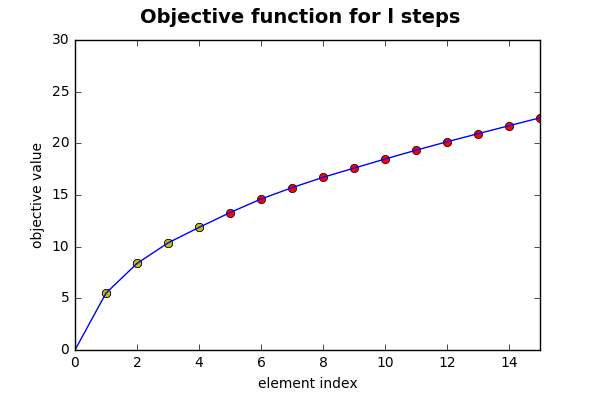
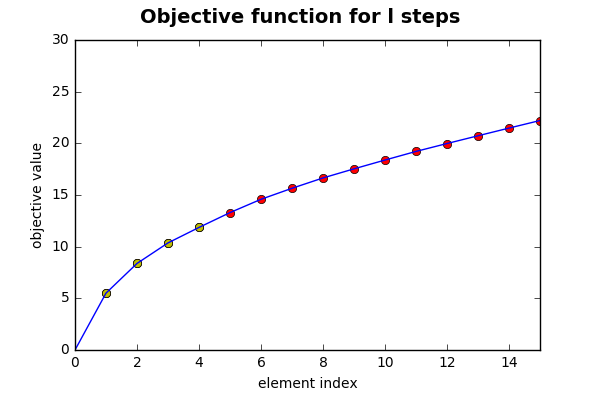
fixed bugs. code should be working now

diff --git a/wikipedia/novel.py b/wikipedia/novel.py
@@ -51,7 +51,6 @@ def novel(l, k, children, elements, dictParents):
 						# iterate through all k positions and rememeber the best swap
 						for j in range(k):
 							aux = bestS[i][j]
-
 							bestS[i][j] = elements[ind]
 
 							val = computeCost(i, bestS[i])
@@ -66,16 +65,15 @@ def novel(l, k, children, elements, dictParents):
 					if newCost > bestCost:
 						bestCost = newCost
 						bestInd = ind
-						bestSWP = [el for el in swp]
+						bestSwp = swp[:]
 
 			# time to add in the best element we found
-
 			if bestCost >= 0:	# make sure we have enough elements in the partition
 				S.append(elements[bestInd])
 				picked[bestInd] = True
 				for i in range(m):
 					if bestSwp[i] != -1:
-						bestS[i][bestSwp[i]] = ind
+						bestS[i][bestSwp[i]] = elements[bestInd]
 				oldCost = bestCost
 
 			# again for plotting purposes
@@ -83,7 +81,6 @@ def novel(l, k, children, elements, dictParents):
 			for i in range(m):
 				curSum = curSum + computeCost(i, bestS[i])
 			history.append(curSum)
-
 
 		# a plot with the value for all l elements
 		fig = plt.figure()
@@ -110,8 +107,12 @@ def novel(l, k, children, elements, dictParents):
 
 		curSum = 0
 		for i in range(m):
-			curSum = curSum + computeCost(i, S)
+			curSum = curSum + computeCost(i, bestS[i])
 		print 'We obtained value ', curSum
+
+		print S, curSum
+		for i in range(m):
+			print bestS[i], set(bestS[i]).issubset(set(S)), computeCost(i, bestS[i])
 
 		return S
 

diff --git a/imageproc/novel.py b/imageproc/novel.py
@@ -65,7 +65,7 @@ def novel(l, k, featvec, catimg):
 					if newCost > bestCost:
 						bestCost = newCost
 						bestInd = imgInd
-						bestSWP = [el for el in swp]
+						bestSwp = swp.copy()
 
 			# time to add in the best element we found
 
@@ -74,7 +74,7 @@ def novel(l, k, featvec, catimg):
 				picked[bestInd] = True
 				for c in categories:
 					if bestSwp[c] != -1:
-						bestS[c][bestSwp[c]] = ind
+						bestS[c][bestSwp[c]] = imgList[bestInd]
 				oldCost = bestCost
 
 			# again for plotting purposes
@@ -105,7 +105,7 @@ def novel(l, k, featvec, catimg):
 		plt.savefig('plotl.png')
 		Image.open('plotl.png').save('plotl.jpg','JPEG')
 
-		return S
+		return S, bestS, history[-1]
 
 	# before hitting k elements, each element will just have to maximize the marginal gain
 	def preK(imgList):

diff --git a/reuters21578/novel.py b/reuters21578/novel.py
@@ -63,7 +63,7 @@ def novel(n, m, l, k, X, articles):
 					if newCost > bestCost:
 						bestCost = newCost
 						bestInd = articleInd
-						bestSWP = [el for el in swp]
+						bestSwp = swp[:]
 
 			# time to add in the best element we found
 
@@ -72,7 +72,7 @@ def novel(n, m, l, k, X, articles):
 				picked[bestInd] = True
 				for i in range(m):
 					if bestSwp[i] != -1:
-						bestS[i][bestSwp[i]] = ind
+						bestS[i][bestSwp[i]] = bestInd
 				oldCost = bestCost
 
 			# again for plotting purposes
@@ -105,10 +105,7 @@ def novel(n, m, l, k, X, articles):
 		plt.savefig('plotl.png')
 		Image.open('plotl.png').save('plotl.jpg','JPEG')
 
-
-
-
-		return S
+		return S, bestS, history[-1]
 
 	# before hitting k elements, each element will just have to maximize the marginal gain
 	def preK():

diff --git a/movielens/novel.py b/movielens/novel.py
@@ -63,7 +63,7 @@ def wrapper(n, m, l, k, sim, movies):
 					if newCost > bestCost:
 						bestCost = newCost
 						bestInd = movInd
-						bestSWP = [el for el in swp]
+						bestSwp = swp[:]
 
 			# time to add in the best element we found
 
@@ -72,7 +72,7 @@ def wrapper(n, m, l, k, sim, movies):
 				picked[bestInd] = True
 				for i in range(m):
 					if bestSwp[i] != -1:
-						bestS[i][bestSwp[i]] = ind
+						bestS[i][bestSwp[i]] = partition[bestInd]
 				oldCost = bestCost
 
 

diff --git a/wikipedia/testNovel.py b/wikipedia/testNovel.py
@@ -673,8 +673,8 @@ d22['35857112'] = ['233488','35887507','213214','65309','442137','33737411','209
 
 
 dictParents = [d1, d2, d3, d4, d5, d6, d7, d8, d9, d10, d11, d12, d13, d14, d15, d16, d17, d18, d19, d20, d21, d22]
-l = 15
-k = 3
+l = 7
+k = 5
 from novel import novel
 
 novel(l, k, children, elements, dictParents)
